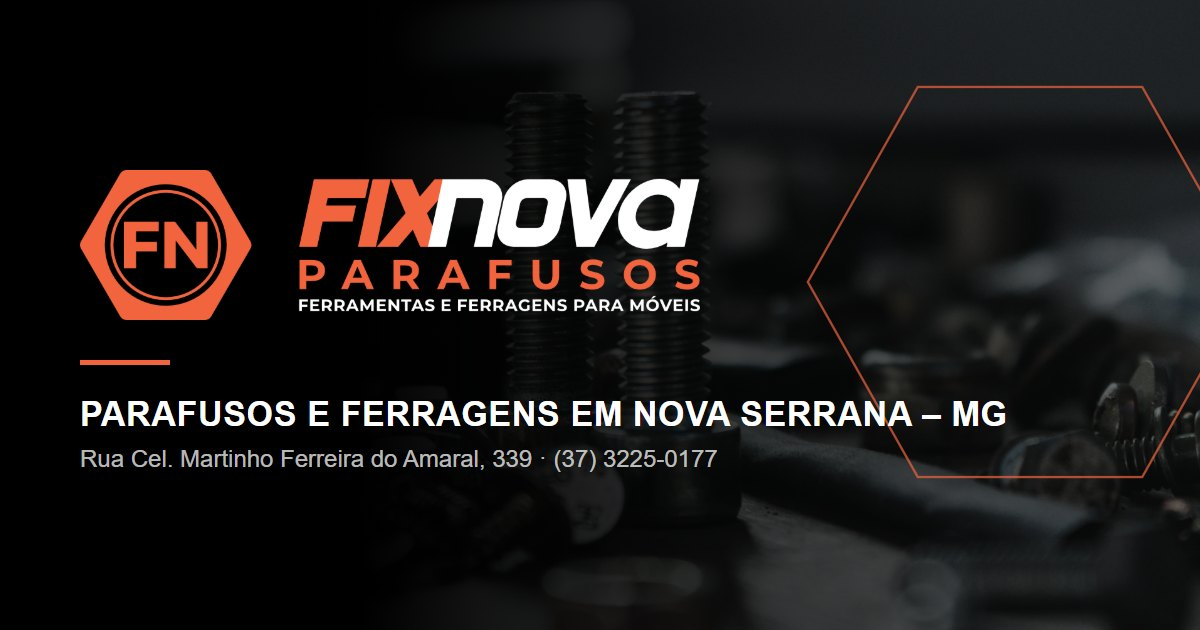
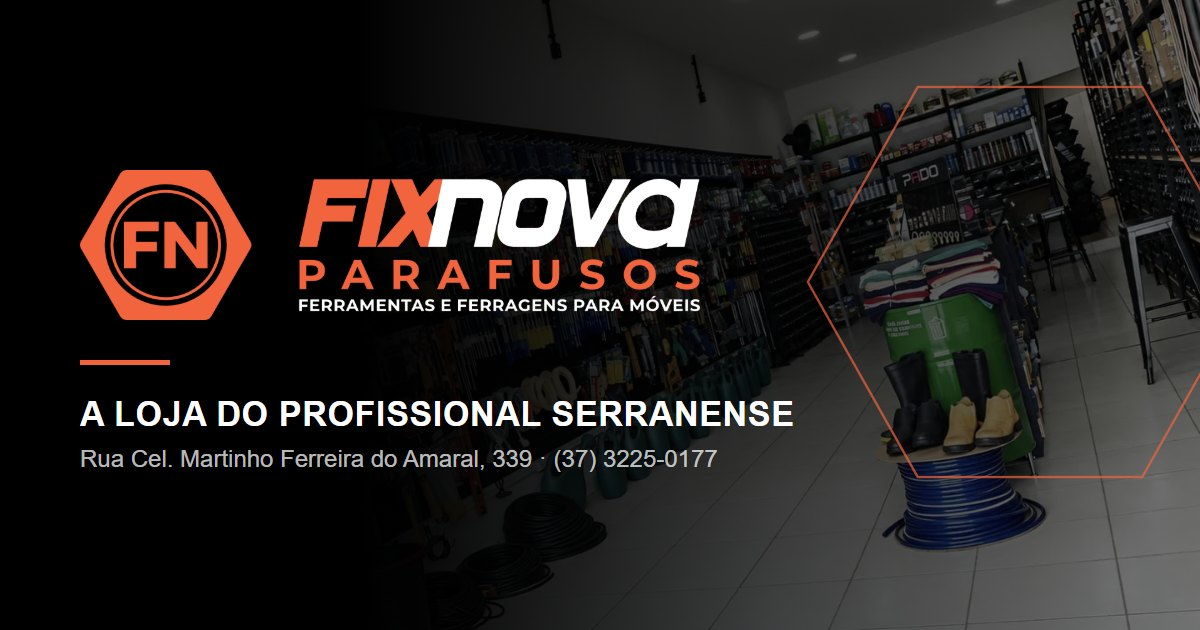
Fotos reais da loja e copy focada em ferramentas e ferragens
- Banner, Sobre, Instagram e cards de Ferramentas, Ferragens e Parafusos
  com fotos da loja (WebP otimizado)
- Título do banner: "A loja do profissional serranense"
- Copy e SEO reposicionados para ferramentas e ferragens para móveis
- Nova imagem de compartilhamento (Open Graph)

diff --git a/index.html b/index.html
@@ -6,14 +6,14 @@
     <meta name="theme-color" content="#000000" />
 
     <!-- SEO -->
-    <title>Fixnova Parafusos | Loja de Parafusos e Ferragens em Nova Serrana – MG</title>
+    <title>Fixnova Parafusos | Ferramentas, Ferragens e Parafusos em Nova Serrana – MG</title>
     <meta
       name="description"
-      content="Fixnova Parafusos: loja de parafusos, porcas, arruelas, fixadores, ferragens e ferramentas em Nova Serrana – MG. Atendimento especializado para profissionais, empresas e projetos de todos os tamanhos."
+      content="Fixnova Parafusos, a loja do profissional serranense: ferramentas, ferragens para móveis, parafusos, porcas, arruelas e fixadores em Nova Serrana – MG. Atendimento especializado para profissionais, empresas e projetos de todos os tamanhos."
     />
     <meta
       name="keywords"
-      content="Fixnova Parafusos, parafusos em Nova Serrana, loja de parafusos em Nova Serrana, ferragens em Nova Serrana, loja de ferragens Nova Serrana MG, fixadores, porcas e arruelas, ferragens para móveis"
+      content="Fixnova Parafusos, ferramentas em Nova Serrana, ferragens para móveis Nova Serrana, parafusos em Nova Serrana, loja de parafusos em Nova Serrana, ferragens em Nova Serrana, loja de ferragens Nova Serrana MG, fixadores, porcas e arruelas, ferragens para móveis"
     />
     <meta name="robots" content="index, follow" />
     <meta name="geo.region" content="BR-MG" />
@@ -25,19 +25,19 @@
     <meta property="og:type" content="website" />
     <meta property="og:locale" content="pt_BR" />
     <meta property="og:site_name" content="Fixnova Parafusos" />
-    <meta property="og:title" content="Fixnova Parafusos | Parafusos e Ferragens em Nova Serrana – MG" />
+    <meta property="og:title" content="Fixnova Parafusos | Ferramentas e Ferragens em Nova Serrana – MG" />
     <meta
       property="og:description"
-      content="Parafusos, ferragens e soluções para profissionais, empresas e projetos de todos os tamanhos. Rua Cel. Martinho Ferreira do Amaral, 339 – Centro, Nova Serrana – MG."
+      content="Ferramentas, ferragens para móveis, parafusos e fixadores para profissionais, empresas e projetos de todos os tamanhos. Rua Cel. Martinho Ferreira do Amaral, 339 – Centro, Nova Serrana – MG."
     />
     <meta property="og:url" content="https://fixnovaparafusos.com.br/" />
     <meta property="og:image" content="https://fixnovaparafusos.com.br/og-image.jpg" />
     <meta property="og:image:alt" content="Logotipo Fixnova Parafusos" />
     <meta name="twitter:card" content="summary_large_image" />
-    <meta name="twitter:title" content="Fixnova Parafusos | Parafusos e Ferragens em Nova Serrana – MG" />
+    <meta name="twitter:title" content="Fixnova Parafusos | Ferramentas e Ferragens em Nova Serrana – MG" />
     <meta
       name="twitter:description"
-      content="Parafusos, ferragens e soluções para profissionais, empresas e projetos de todos os tamanhos."
+      content="Ferramentas, ferragens para móveis, parafusos e fixadores para profissionais, empresas e projetos de todos os tamanhos."
     />
     <meta name="twitter:image" content="https://fixnovaparafusos.com.br/og-image.jpg" />
 
@@ -58,7 +58,7 @@
         "@context": "https://schema.org",
         "@type": "HardwareStore",
         "name": "Fixnova Parafusos",
-        "description": "Loja de parafusos, fixadores, ferragens e ferramentas em Nova Serrana – MG.",
+        "description": "Loja de ferramentas, ferragens para móveis, parafusos e fixadores em Nova Serrana – MG.",
         "url": "https://fixnovaparafusos.com.br/",
         "logo": "https://fixnovaparafusos.com.br/logo-fixnova.png",
         "image": "https://fixnovaparafusos.com.br/og-image.jpg",
@@ -85,7 +85,7 @@
     </script>
   </head>
   <body>
-    <noscript>Fixnova Parafusos – loja de parafusos e ferragens em Nova Serrana – MG. Telefone (37) 3225-0177.</noscript>
+    <noscript>Fixnova Parafusos – ferramentas, ferragens e parafusos em Nova Serrana – MG. Telefone (37) 3225-0177.</noscript>
     <div id="root"></div>
     <script type="module" src="/src/main.tsx"></script>
   </body>

diff --git a/src/data/products.ts b/src/data/products.ts
@@ -18,18 +18,25 @@ export interface ProductCategory {
 
 export const productCategories: ProductCategory[] = [
   {
+    id: 'ferramentas',
+    name: 'Ferramentas e Acessórios',
+    description: 'Ferramentas manuais e acessórios para montagem, instalação, marcenaria e manutenção.',
+    image: '/images/ferramentas.webp',
+    imageAlt: 'Parede de ferramentas na loja Fixnova',
+  },
+  {
+    id: 'ferragens',
+    name: 'Ferragens para Móveis',
+    description: 'Puxadores, suportes e ferragens que unem função, acabamento e durabilidade ao móvel.',
+    image: '/images/ferragens.webp',
+    imageAlt: 'Mostruário de ferragens na loja Fixnova',
+  },
+  {
     id: 'parafusos',
     name: 'Parafusos',
     description: 'Diversos tipos, cabeças e medidas para madeira, metal e montagem de móveis.',
     image: '/images/parafusos.webp',
-    imageAlt: 'Parafusos metálicos de rosca soberba em close',
-  },
-  {
-    id: 'porcas-arruelas',
-    name: 'Porcas e Arruelas',
-    description: 'Complementos essenciais para uma fixação firme, segura e bem acabada.',
-    image: '/images/porcas-arruelas.webp',
-    imageAlt: 'Porcas sextavadas e parafusos de aço',
+    imageAlt: 'Nichos de parafusos na loja Fixnova',
   },
   {
     id: 'fixadores',
@@ -39,18 +46,10 @@ export const productCategories: ProductCategory[] = [
     imageAlt: 'Variedade de fixadores e parafusos sobre superfície clara',
   },
   {
-    id: 'ferragens',
-    name: 'Ferragens',
-    description: 'Ferragens para móveis e acabamentos que unem função e durabilidade.',
-    image: '/images/ferragens.webp',
-    imageAlt: 'Puxadores metálicos pretos instalados em portas de móvel',
-    imagePosition: 'center 35%',
-  },
-  {
-    id: 'ferramentas',
-    name: 'Ferramentas e Acessórios',
-    description: 'Ferramentas e acessórios para montagem, instalação e manutenção.',
-    image: '/images/ferramentas.webp',
-    imageAlt: 'Alicates e ferramentas manuais organizados em suporte',
+    id: 'porcas-arruelas',
+    name: 'Porcas e Arruelas',
+    description: 'Complementos essenciais para uma montagem firme, segura e bem acabada.',
+    image: '/images/porcas-arruelas.webp',
+    imageAlt: 'Porcas sextavadas e parafusos de aço',
   },
 ];

diff --git a/src/components/About.tsx b/src/components/About.tsx
@@ -3,7 +3,7 @@ import { Hexagon } from './ui/Hexagon';
 import { Icon } from './ui/Icon';
 import './About.css';
 
-const highlights = ['Parafusos e fixadores', 'Ferragens para móveis', 'Ferramentas e acessórios'];
+const highlights = ['Ferramentas e acessórios', 'Ferragens para móveis', 'Parafusos e fixadores'];
 
 export function About() {
   return (
@@ -13,11 +13,11 @@ export function About() {
           <div className="about__frame">
             <img
               src="/images/sobre.webp"
-              alt="Prateleiras com conexões e ferragens organizadas em loja"
+              alt="Fachada da loja Fixnova Parafusos"
               loading="lazy"
               decoding="async"
               width={1000}
-              height={1150}
+              height={1120}
             />
           </div>
           <Hexagon className="about__hex" size={180} />
@@ -33,15 +33,15 @@ export function About() {
           <header className="section-heading" data-reveal>
             <span className="eyebrow">Sobre a Fixnova</span>
             <h2 id="sobre-title">
-              Especialista em <span className="text-orange">fixação</span> e ferragens
+              Especialista em ferramentas e <span className="text-orange">ferragens</span>
             </h2>
           </header>
 
           <div className="about__text" data-reveal data-reveal-delay="100">
             <p>
-              A <strong>Fixnova Parafusos</strong> é uma loja especializada em soluções para fixação e ferragens em
-              Nova Serrana – MG. Reunimos parafusos, porcas, arruelas, fixadores, ferragens para móveis e
-              ferramentas para atender profissionais, empresas e quem busca a peça certa para o seu projeto.
+              A <strong>Fixnova Parafusos</strong> é uma loja especializada em ferramentas e ferragens para móveis em
+              Nova Serrana – MG. Reunimos ferramentas, acessórios, ferragens, parafusos, porcas, arruelas e
+              fixadores para atender profissionais, empresas e quem busca o produto certo para o seu projeto.
             </p>
             <p>
               Nosso compromisso é oferecer um atendimento próximo e técnico, ajudando cada cliente a encontrar o

diff --git a/src/components/Hero.tsx b/src/components/Hero.tsx
@@ -9,8 +9,8 @@ export function Hero() {
     <section id="inicio" className="hero" aria-labelledby="hero-title">
       <div className="hero__media" aria-hidden="true">
         <img
-          src="/images/hero-1920.webp"
-          srcSet="/images/hero-1080.webp 1080w, /images/hero-1920.webp 1920w"
+          src="/images/hero-1440.webp"
+          srcSet="/images/hero-1080.webp 1080w, /images/hero-1440.webp 1440w"
           sizes="100vw"
           alt=""
           fetchPriority="high"
@@ -37,13 +37,14 @@ export function Hero() {
         </p>
 
         <h1 id="hero-title" className="hero__title hero-in" style={{ animationDelay: '0.2s' }}>
-          Fixação <span className="text-orange">certa</span>
+          A loja do <span className="text-orange">profissional</span>
           <br />
-          para cada projeto
+          serranense
         </h1>
 
         <p className="hero__text hero-in" style={{ animationDelay: '0.35s' }}>
-          Parafusos, ferragens e soluções para profissionais, empresas e projetos de todos os tamanhos
+          Ferramentas, ferragens para móveis, parafusos e fixadores para profissionais, empresas e projetos de
+          todos os tamanhos
         </p>
 
         <div className="hero__actions hero-in" style={{ animationDelay: '0.5s' }}>

diff --git a/src/data/content.ts b/src/data/content.ts
@@ -5,7 +5,7 @@ export const differentials: { icon: IconName; title: string; text: string }[] = 
   {
     icon: 'grid',
     title: 'Variedade de produtos',
-    text: 'Parafusos, fixadores, ferragens e ferramentas reunidos em um só lugar.',
+    text: 'Ferramentas, ferragens, parafusos e fixadores reunidos em um só lugar.',
   },
   {
     icon: 'chat',
@@ -37,10 +37,10 @@ export interface InstagramPost {
 }
 
 export const instagramPosts: InstagramPost[] = [
-  { image: '/images/parafusos.webp', alt: 'Parafusos' },
+  { image: '/images/instagram/loja-4.webp' },
+  { image: '/images/instagram/loja-1.webp' },
   {},
-  { image: '/images/ferragens.webp', alt: 'Ferragens para móveis' },
-  { image: '/images/porcas-arruelas.webp', alt: 'Porcas e parafusos' },
-  {},
-  { image: '/images/ferramentas.webp', alt: 'Ferramentas' },
+  { image: '/images/instagram/loja-2.webp' },
+  { image: '/images/instagram/loja-5.webp' },
+  { image: '/images/instagram/loja-3.webp' },
 ];

diff --git a/src/components/Products.tsx b/src/components/Products.tsx
@@ -22,12 +22,13 @@ export function Products() {
             eyebrow="Produtos"
             title={
               <>
-                Soluções completas em <span className="text-orange">fixação</span>
+                Tudo para o seu projeto <span className="text-orange">em um só lugar</span>
               </>
             }
           />
           <p className="products__intro" data-reveal data-reveal-delay="100">
-            Conheça as principais linhas da Fixnova. Consulte nossa equipe para modelos, medidas e disponibilidade.
+            Ferramentas, ferragens para móveis, parafusos e fixadores. Consulte nossa equipe para modelos, medidas e
+            disponibilidade.
           </p>
         </div>
 

diff --git a/src/components/Footer.tsx b/src/components/Footer.tsx
@@ -13,7 +13,7 @@ export function Footer() {
           <a href="#inicio" aria-label="Fixnova Parafusos – voltar ao início">
             <img src={logo} alt="Fixnova Parafusos" width={989} height={240} loading="lazy" />
           </a>
-          <p>Parafusos, fixadores, ferragens e ferramentas em Nova Serrana – MG.</p>
+          <p>Ferramentas, ferragens para móveis, parafusos e fixadores em Nova Serrana – MG.</p>
           <a className="footer__social" href={site.instagram.url} target="_blank" rel="noopener noreferrer">
             <Icon name="instagram" size={20} />
             {site.instagram.handle}

diff --git a/README.md b/README.md
@@ -39,9 +39,10 @@ informando `image` e `url` (link do post). Itens vazios (`{}`) aparecem com o í
 
 ### Imagens
 
-As fotos atuais são do Unsplash (uso livre, inclusive comercial) e estão otimizadas em WebP.
-Para trocar pelas fotos reais da loja, substitua os arquivos em `public/images/` mantendo os nomes, ou atualize os caminhos nos arquivos de dados.
-Recomendado: WebP, ~800×600 para os cards, 1920px de largura para o banner (`hero-1920.webp`) e 1080px para a versão mobile (`hero-1080.webp`).
+Banner, Sobre, Instagram e os cards de Ferramentas, Ferragens e Parafusos usam fotos reais da loja.
+Os cards de Fixadores e Porcas e Arruelas ainda usam fotos do Unsplash (uso livre, inclusive comercial).
+Para trocar qualquer foto, substitua o arquivo em `public/images/` mantendo o nome, ou atualize o caminho nos arquivos de dados.
+Recomendado: WebP, ~800×600 para os cards, 1440px de largura para o banner (`hero-1440.webp`) e 1080px para a versão mobile (`hero-1080.webp`).
 
 ## Antes de publicar
 
